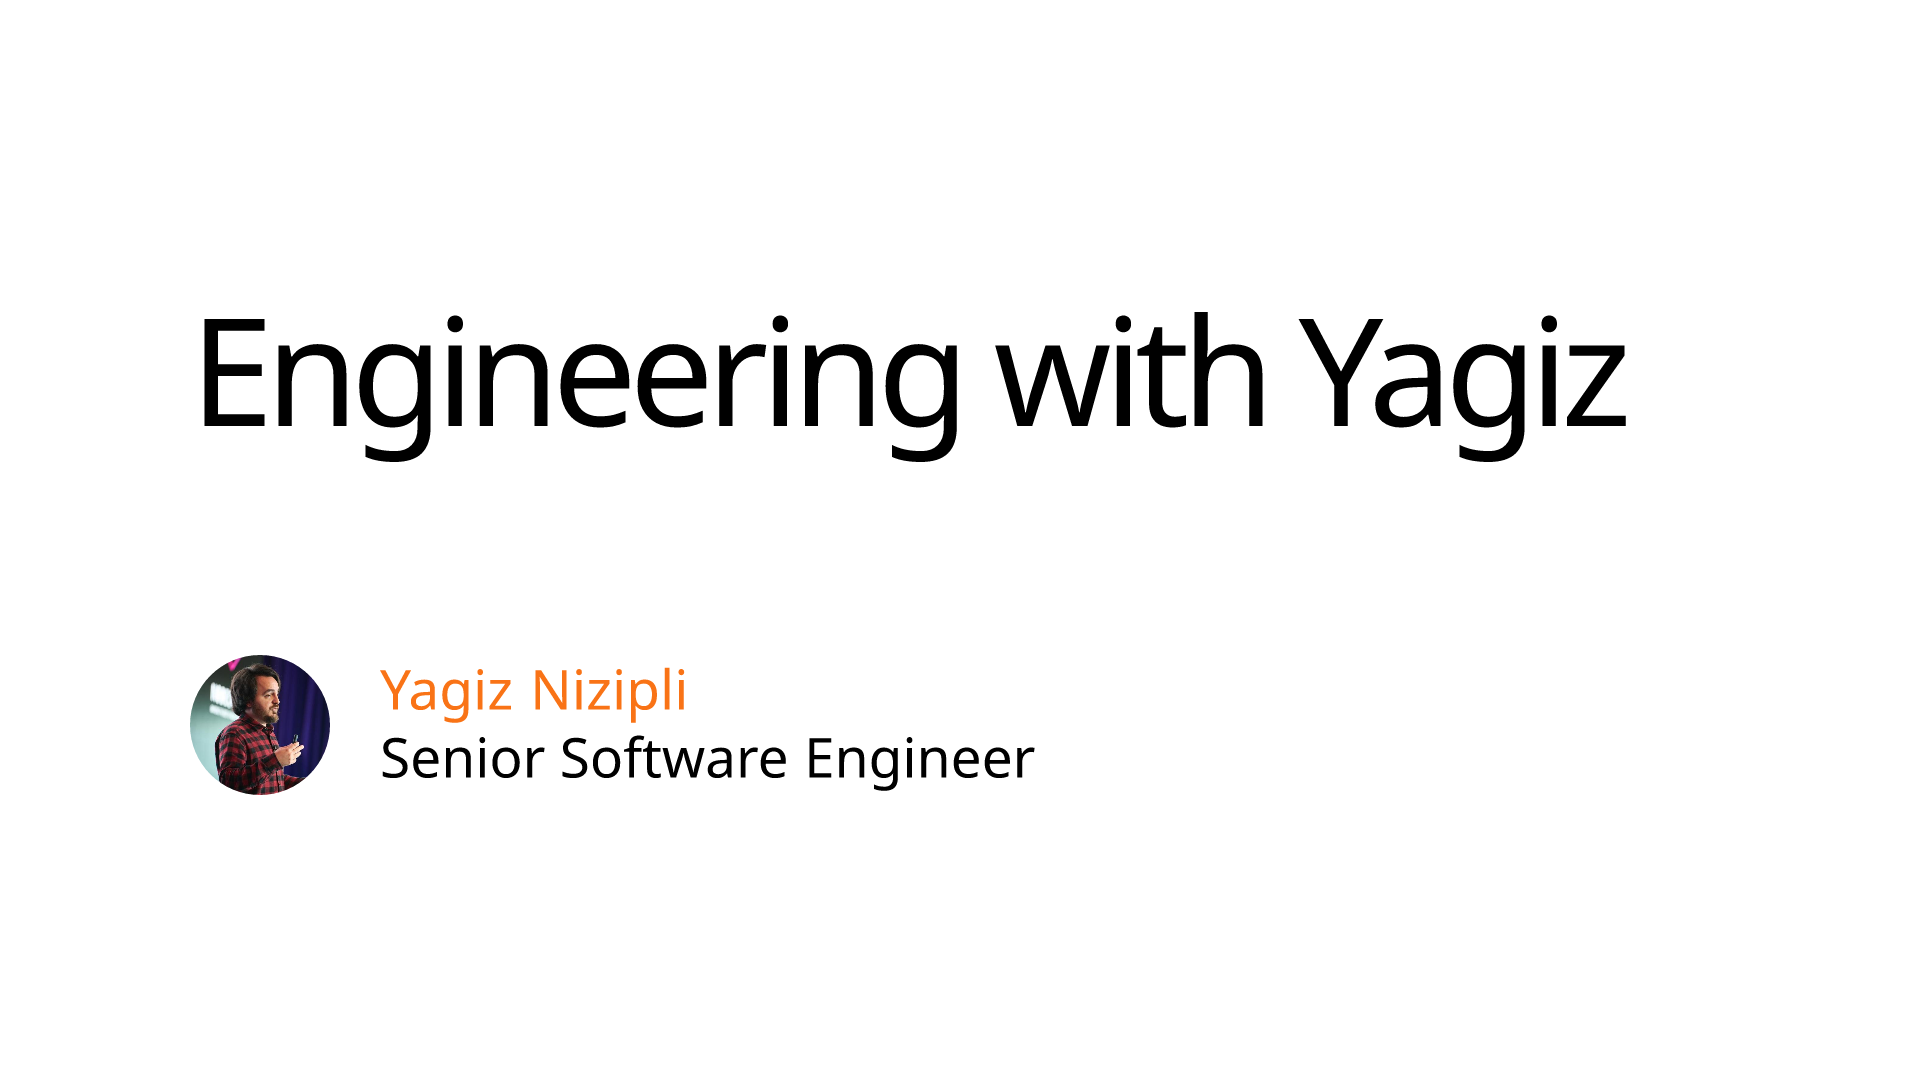
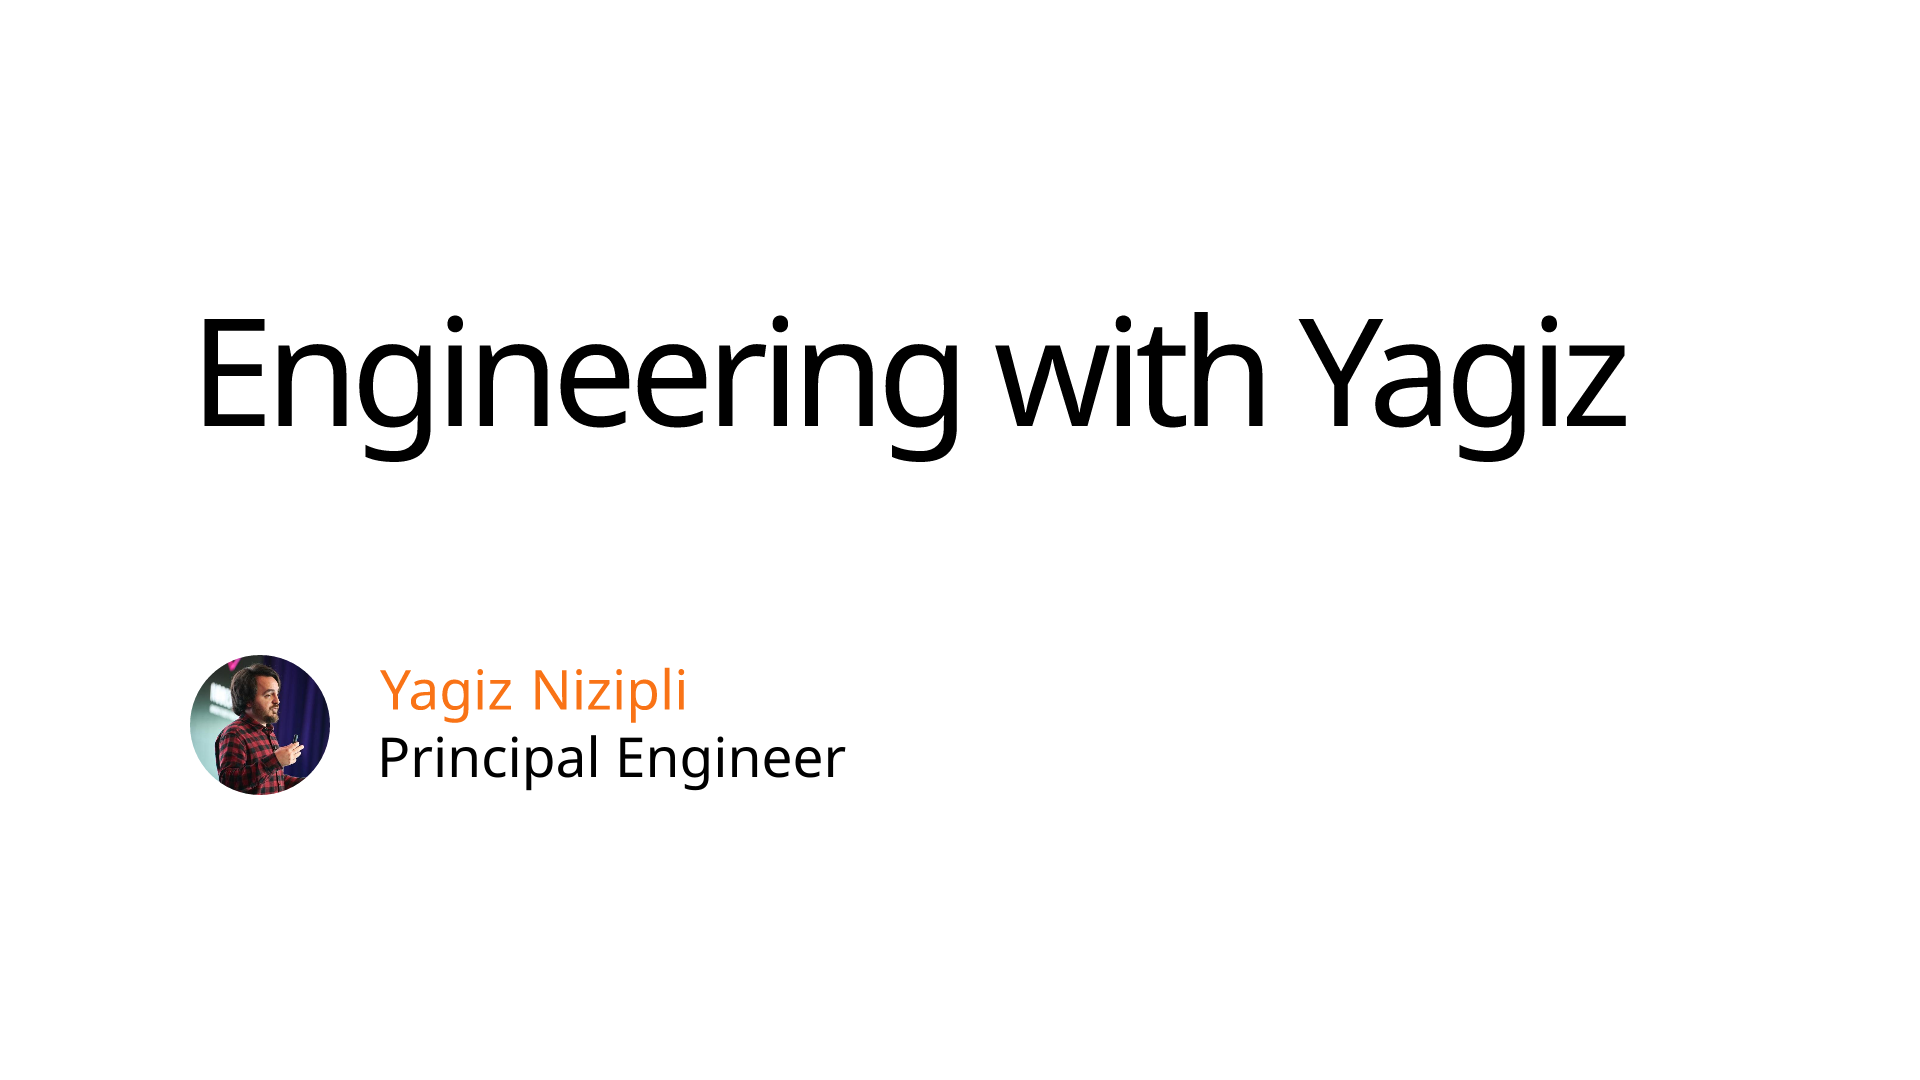
Replace the Open Graph job title with Principal Engineer. (#233)
The site card is a static image, and article cards read authorJobTitle at build time.

Changed region(s): [[0.1875, 0.6722, 0.5312, 0.7333]]

diff --git a/src/lib/content.ts b/src/lib/content.ts
@@ -15,7 +15,8 @@ export const authorDescription =
   'Yagiz Nizipli is a V8 committer and Node.js Technical Steering Committee member. He writes about software performance, URL parsing, and Node.js internals.'
 export const websiteUrl = 'https://www.yagiz.co'
 export const authorFullName = 'Yagiz Nizipli'
-export const authorJobTitle = 'Software Engineer'
+// Baked into public/opengraph-image.png. Regenerate that file when this changes.
+export const authorJobTitle = 'Principal Engineer'
 // public/opengraph-image.png — measured, not the article-card size.
 export const openGraphImage = {
   width: 1920,
